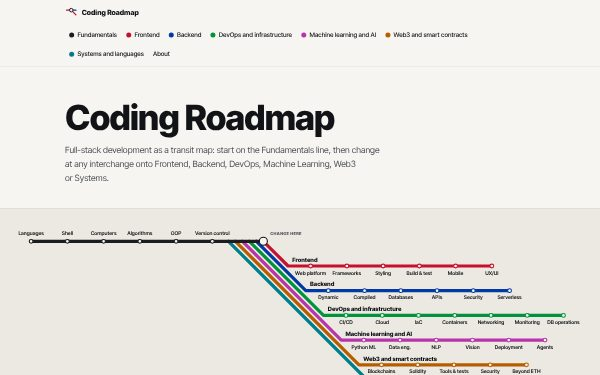
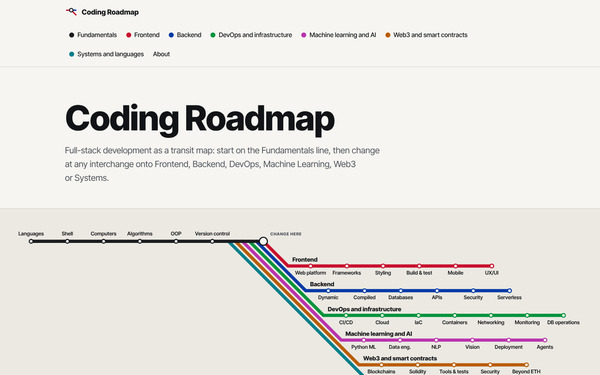
Coding Roadmap tile: page figures and refreshed card images

diff --git a/site/index.html b/site/index.html
@@ -424,11 +424,11 @@
             <span class="meta">
               <span class="plate">No. 29</span>
               <span class="title" id="t-coding-roadmap">Coding Roadmap</span>
-              <span class="line">Development drawn as a transit map: one trunk line and six branches, from frontend to systems, with every tool linked to its official docs and the hands-on guides beside them.</span>
+              <span class="line">Full-stack development drawn as a transit map: seven lines and 41 stations, from frontend to systems, with 119 tools and topics on the way.</span>
               <span class="go" id="g-coding-roadmap">Visit codingroadmap.shadw.app<span class="sr-only"> (opens in a new tab)</span></span>
             </span>
           </a>
-          <ul class="tags"><li>Maps &amp; atlases</li><li>10 pages</li><li>7 lines</li><li>Transit map</li></ul>
+          <ul class="tags"><li>Maps &amp; atlases</li><li>7 lines</li><li>41 stations</li><li>119 tools and topics</li><li>Transit map</li></ul>
         </li>
         <li class="card" data-group="guides" id="work-compass-trail">
           <a href="https://guides.shadw.app" target="_blank" rel="noopener" aria-labelledby="t-compass-trail g-compass-trail">
